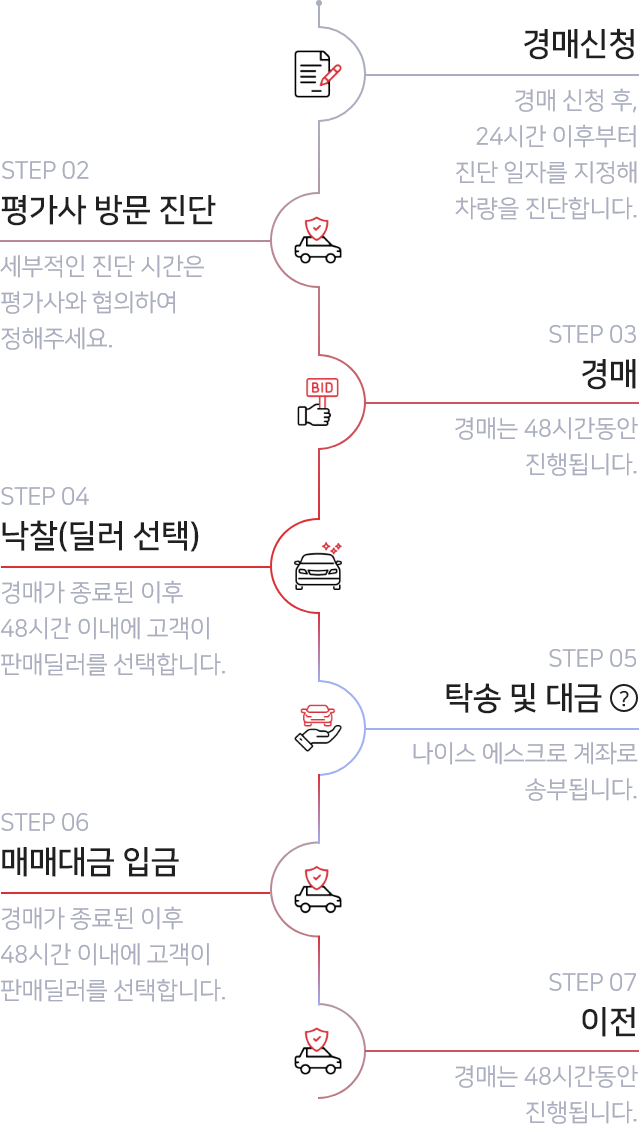
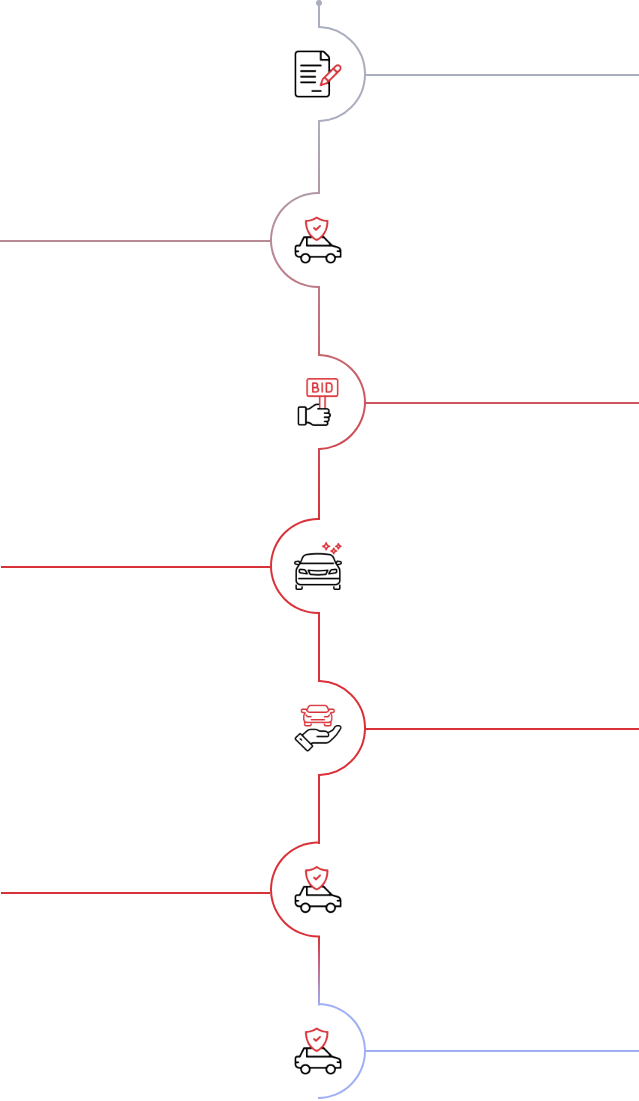
// 수정사항 10 번 11번 진행 완료료

diff --git a/resources/js/views/auction/sell/index.vue b/resources/js/views/auction/sell/index.vue
@@ -123,6 +123,7 @@ import useAuctions from '@/composables/auctions';
 import { cmmn } from '@/hooks/cmmn';
 import drift from '../../../../../resources/img/drift.png';
 import imgInfo from'../../../../img/auction-detil.png';
+import imgInfoIcon from'../../../../../resources/img/q-mark.png';
 import info1 from '../../../../../resources/img/modal/info3.png';
 import info2 from '../../../../../resources/img/modal/info1.png';
 import info3 from '../../../../../resources/img/modal/info2.png';
@@ -556,9 +557,48 @@ const checkRefreshAvailability = () => {
 const UserapplyAuction = () => {
     const text = `
     <h5 class="text-start mb-3">경매 진행 순서 안내</h5>
-    <div class="sellInfo my-3 p-4" style="position: relative;">
-        <img src="${imgInfo}" alt="Auction Detail" class="auction-detail-img">
-        <div id="tooltip-area" class="tooltip-area" style="cursor: pointer; position: absolute; width: 50px; height: 50px;"></div>
+    <div class="sellInfo my-3 p-4 mb-4" style="position: relative;">
+        <div class="auction-guid-popup-container">
+            <img src="${imgInfo}" alt="Auction Detail" class="auction-detail-img">
+            <div class="auction-guid-popup">
+                <div class="step01">
+                    <p class="steps">STEP 01</p>
+                    <p class="title">경매신청</p>
+                    <p class="sub text-end">경매 신청 후,<br>24시간 이후부터<br>진단 일자를 지정해<br>차량을 진단합니다.</p>
+                </div>
+                <div class="step02">
+                    <p class="steps">STEP 02</p>
+                    <p class="title">평가사 방문 진단</p>
+                    <p class="sub text-start">세부적인 진단 시간은<br>평가사와 협의하여<br>정해주세요.</p>
+                </div>
+                 <div class="step03">
+                    <p class="steps">STEP 03</p>
+                    <p class="title">경매</p>
+                    <p class="sub text-end">경매는 48시간동안<br>진행됩니다.</p>
+                </div>
+                <div class="step04">
+                    <p class="steps">STEP 04</p>
+                    <p class="title">낙찰(딜러 선택)</p>
+                    <p class="sub text-start">경매가 종료된 이후<br>48시간 이내에 고객이<br>판매딜러를 선택합니다.</p>
+                </div>
+                <div class="step05">
+                    <p class="steps">STEP 05</p>
+                    <p class="title new-style-step">탁송 및 대금<img src="${imgInfoIcon}" alt="Auction Detail" class="auction-icon"></p>
+                    <p class="sub text-end">탁송은 당사 직접 진행하며,<br>탁송전 00 시간까지<br>나이스 에스크 계좌로<br>매매대금이 입금됩니다.</p>
+                </div>
+                <div class="step06">
+                    <p class="steps">STEP 06</p>
+                    <p class="title">매매대금 입금</p>
+                    <p class="sub text-start">탁송기사가 차량등록증등<br>이전에 필요한 서류를 받으면<br>매매대금이 나이스 에스크로<br>계좌에서 개인 계좌로<br>송부됩니다.</p>
+                </div>
+                <div class="step07">
+                    <p class="steps">STEP 07</p>
+                    <p class="title">이전</p>
+                    <p class="sub text-end">경매는 48시간동안<br>진행됩니다.</p>
+                </div>
+            </div>
+        </div>
+        <div id="tooltip-area" class="tooltip-area" style="cursor: pointer; position: absolute; width: 37px; height: 43px;"></div>
         <div id="tooltip" class="p-4 tooltip2" style="display: none; position: absolute; background: white; color: black; padding: 10px; border-radius: 5px; border:1px solid #aaaebe;">
             <div class="text-center">
                 <h5>※ 탁송 및 대금</h5>
@@ -660,7 +700,6 @@ const secondModal = () => {
                 <img src="${info1}" class="info-img">
                 <div class="text-center">
                   <p>필요서류 없음</p>
-                  <p class="text-secondary opacity-50">본인 소유 차량이 아닐경우<br>위임장 또는 소유자 인감<br>증명서가 필요합니다.</p>
                 </div>
               </div>
               <div class="info-block">

diff --git a/resources/sass/style.scss b/resources/sass/style.scss
@@ -5017,4 +5017,110 @@ input[type="checkbox"] {
     height: 34px !important;
   }
   
-  
+/* 옥션 가이드 팝업 스타일 */
+.auction-guid-popup-container {
+    position: relative;
+    display: inline-block;
+}
+
+.auction-detail-img {
+    display: block;
+    width: 100%;
+    height: auto;
+}
+
+.auction-guid-popup .title {
+
+    /* transform: translate(-50%, -50%); */
+    font-size: 20px !important;
+    font-weight: bold !important;
+}
+.auction-guid-popup .sub {
+
+    /* transform: translate(-50%, -50%); */
+    font-size: 15px !important;
+    /* font-weight: bold !important; */
+    text-align: right;
+    color: #AAAEBE;
+}
+.auction-guid-popup .steps {
+    line-height: 1;
+    font-size: 17px !important;
+    /* font-weight: bold !important; */
+    text-align: right;
+    color: #AAAEBE;
+}
+.step02 {
+    display: flex;
+    top: 109px;
+    gap: 0px;
+    position: absolute;
+    flex-direction: column;
+    gap: 1px;
+    align-items: flex-start;
+}
+.step01{
+    display: flex;
+    position: absolute;
+    flex-direction: column;
+    gap: 1px;
+    top: -2px;
+    right: 0;
+    align-items: flex-end;   
+}
+.step03{
+    display: flex;
+    position: absolute;
+    flex-direction: column;
+    gap: 1px;
+    top: 216px;
+    right: 0;
+    align-items: flex-end;   
+}
+.step04 {
+    display: flex;
+    top: 325px;
+    gap: 0px;
+    position: absolute;
+    flex-direction: column;
+    gap: 1px;
+    align-items: flex-start;
+}
+.step05{
+    display: flex;
+    position: absolute;
+    flex-direction: column;
+    gap: 1px;
+    top: 432px;
+    right: 0;
+    align-items: flex-end;   
+}
+.new-style-step{
+    display: flex !important;
+    gap: 4px;
+    align-items: center;  
+}
+.step06 {
+    display: flex;
+    top: 543px;
+    gap: 0px;
+    position: absolute;
+    flex-direction: column;
+    gap: 1px;
+    align-items: flex-start;
+}
+.step07{
+    display: flex;
+    position: absolute;
+    flex-direction: column;
+    gap: 1px;
+    top: 644px;
+    right: 0;
+    align-items: flex-end;   
+}
+.auction-icon{
+    width: 22px;
+    /* line-height: 14px; */
+    height: 22px;
+    margin-bottom: 4px;   
+}

diff --git a/resources/sass/_variables.scss b/resources/sass/_variables.scss
@@ -112,8 +112,8 @@ background-color: $sub-color !important;
     cursor: pointer;
 }
 .tooltip-area{
-    right: 13px;
-    bottom: 285px;
+    right: 16px;
+    bottom: 272px;
 }
 #tooltip {
     z-index: 10;
@@ -121,15 +121,15 @@ background-color: $sub-color !important;
     font-size: 14px;
 }
 .tooltip2 {
-    position: absolute; /* 또는 fixed */
+    position: absolute; 
     top: 50%;
     right: 0px;
     left: 0px;
     transform: translate(0px, -50%);
-    background: white; /* 배경 색상 */
-    padding: 10px; /* 패딩 */
-    border-radius: 5px; /* 테두리 둥글기 */
-    border: 1px solid $sub-color03; /* 테두리 색상 */
+    background: white;
+    padding: 10px; 
+    border-radius: 5px; 
+    border: 1px solid $sub-color03;
 }
 @media (max-width:512px) {
  .tooltip-area{
